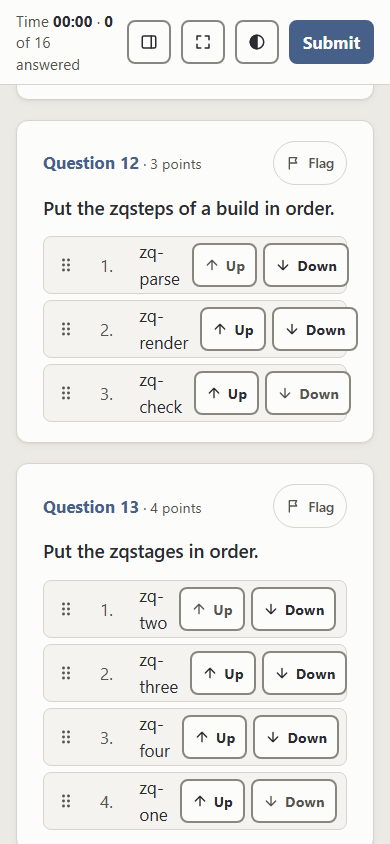
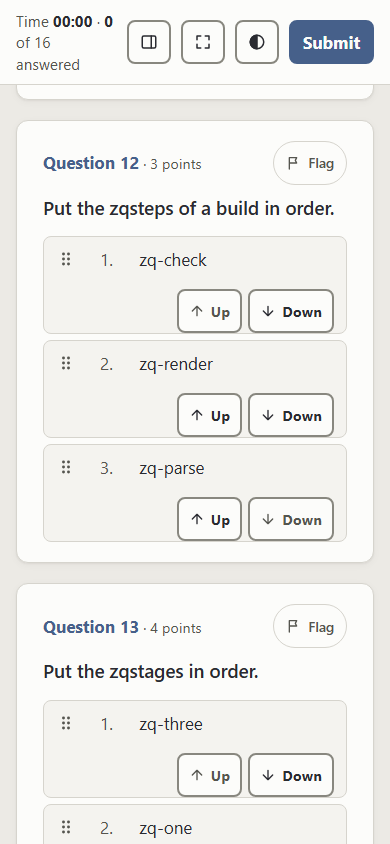
Ordering rows wrap at a narrow width (the buttons drop under the text); the 23 px phone spec runs with touch in Firefox too

diff --git a/e2e/textsize.spec.ts b/e2e/textsize.spec.ts
@@ -99,7 +99,7 @@ test("Default look resets the theme and the size", async ({ page }) => {
 
 const phone = base.extend({
   page: async ({ browser, browserName }, use) => {
-    const touch = browserName === "chromium" ? { hasTouch: true, isMobile: true } : {};
+    const touch = browserName === "chromium" ? { hasTouch: true, isMobile: true } : { hasTouch: true };
     const context = await browser.newContext({ viewport: { width: 390, height: 844 }, ...touch });
     await use(await context.newPage());
     await context.close();

diff --git a/src/page/styles/20-quiz.css b/src/page/styles/20-quiz.css
@@ -219,7 +219,8 @@
 
   .fm-order-item {
     display: flex;
-    gap: 12px;
+    flex-wrap: wrap;
+    gap: 8px 12px;
     align-items: center;
     justify-content: space-between;
     min-height: 58px;
@@ -282,7 +283,8 @@
   }
 
   .fm-order-text {
-    flex: 1;
+    flex: 1 1 8em;
+    min-width: 0;
   }
 
   .fm-order-text p {
@@ -293,6 +295,7 @@
     display: flex;
     flex: none;
     gap: 6px;
+    margin-left: auto;
   }
 
   .fm-move.fm-button {
